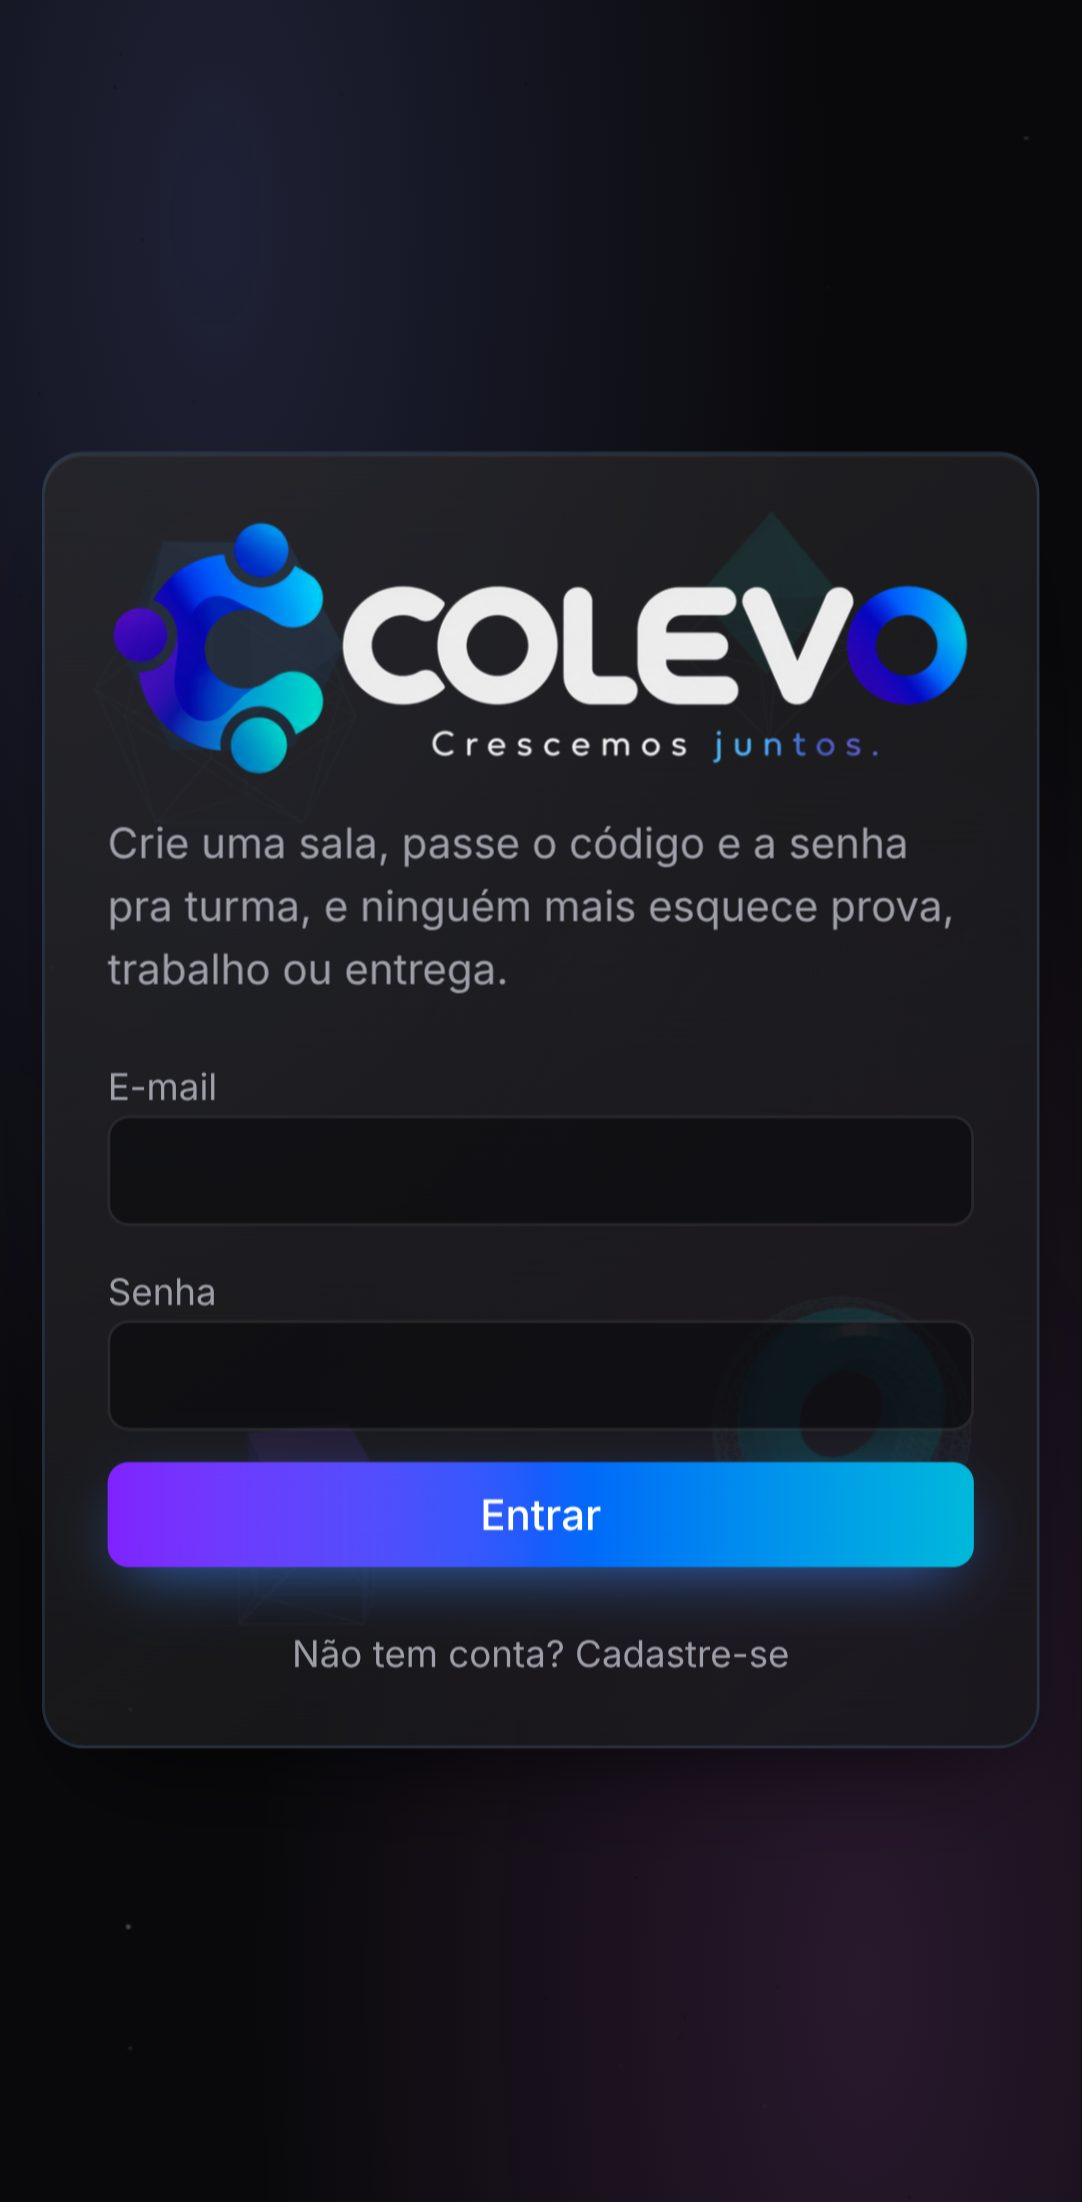
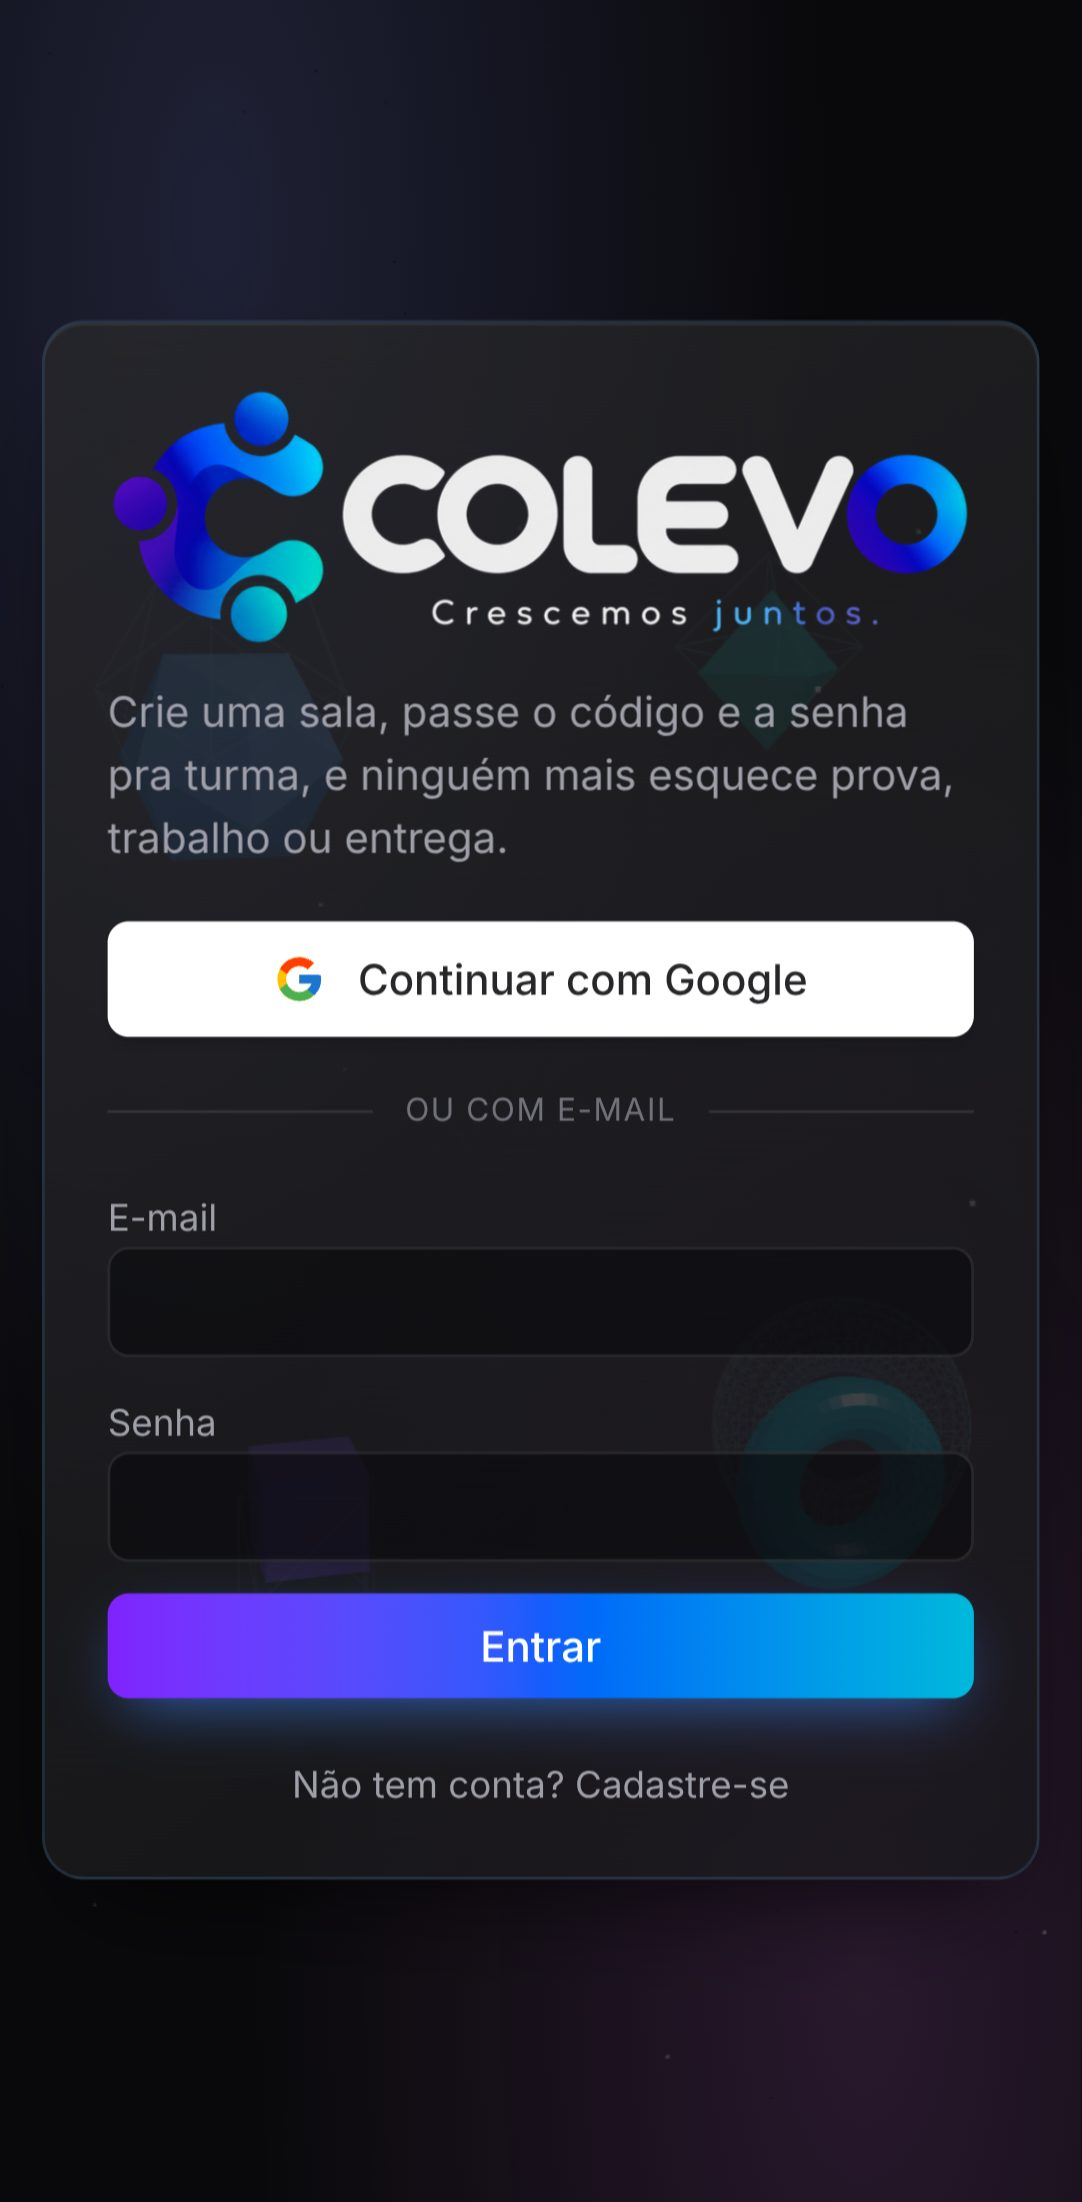
Login com Google
- Botão 'Continuar com Google' (fluxo PKCE, compatível com as rotas em #)
- Convite preservado: quem chega por link de convite volta do Google já
  com 'Entrar na sala' aberto
- Perfil usa o nome da conta Google (migração 0005)
- Testes de unidade e E2E para o fluxo

Claude-Session: https://claude.ai/code/session_01LPd3iDwAj924mu54k76acW

diff --git a/src/features/auth/TelaLogin.tsx b/src/features/auth/TelaLogin.tsx
@@ -3,6 +3,7 @@ import { supabase } from '../../lib/supabase'
 import { Botao, Campo, Cartao, Erro } from '../../components/ui'
 import { Tilt } from '../../components/Tilt'
 import { Logo } from '../../components/Logo'
+import { entrarComGoogle } from './loginGoogle'
 
 export function TelaLogin() {
   const [modo, setModo] = useState<'entrar' | 'cadastrar'>('entrar')
@@ -12,6 +13,18 @@ export function TelaLogin() {
   const [carregando, setCarregando] = useState(false)
   const [erro, setErro] = useState<unknown>(null)
   const [aviso, setAviso] = useState('')
+  const [indoProGoogle, setIndoProGoogle] = useState(false)
+
+  async function google() {
+    setErro(null)
+    setIndoProGoogle(true)
+    try {
+      await entrarComGoogle() // o navegador sai para a página do Google
+    } catch (e) {
+      setErro(e)
+      setIndoProGoogle(false)
+    }
+  }
 
   async function enviar(e: FormEvent) {
     e.preventDefault()
@@ -41,6 +54,20 @@ export function TelaLogin() {
           <p className="text-zinc-400">Crie uma sala, passe o código e a senha pra turma, e ninguém mais esquece prova, trabalho ou entrega.</p>
         </div>
 
+        <button
+          type="button"
+          onClick={google}
+          disabled={indoProGoogle}
+          className="flex w-full items-center justify-center gap-3 rounded-lg bg-white px-4 py-2.5 font-medium text-zinc-800 shadow-md transition hover:bg-zinc-100 disabled:opacity-60"
+        >
+          <IconeGoogle />
+          {indoProGoogle ? 'Abrindo o Google…' : 'Continuar com Google'}
+        </button>
+
+        <div className="flex items-center gap-3 text-xs uppercase tracking-wider text-zinc-500">
+          <span className="h-px flex-1 bg-white/10" /> ou com e-mail <span className="h-px flex-1 bg-white/10" />
+        </div>
+
         <form onSubmit={enviar} className="space-y-3">
           {modo === 'cadastrar' && (
             <Campo rotulo="Seu nome" value={nome} onChange={(e) => setNome(e.target.value)} required />
@@ -63,6 +90,18 @@ export function TelaLogin() {
       </Cartao>
       </Tilt>
     </main>
+  )
+}
+
+/** Logo oficial do "G" do Google (as cores fazem parte das regras de marca deles). */
+function IconeGoogle() {
+  return (
+    <svg viewBox="0 0 48 48" className="size-5" aria-hidden="true">
+      <path fill="#FFC107" d="M43.6 20.5H42V20H24v8h11.3C33.7 32.7 29.2 36 24 36c-6.6 0-12-5.4-12-12s5.4-12 12-12c3.1 0 5.8 1.2 7.9 3.1l5.7-5.7C34 6.1 29.3 4 24 4 12.9 4 4 12.9 4 24s8.9 20 20 20 20-8.9 20-20c0-1.3-.1-2.4-.4-3.5z" />
+      <path fill="#FF3D00" d="m6.3 14.7 6.6 4.8C14.7 15.1 19 12 24 12c3.1 0 5.8 1.2 7.9 3.1l5.7-5.7C34 6.1 29.3 4 24 4 16.3 4 9.7 8.3 6.3 14.7z" />
+      <path fill="#4CAF50" d="M24 44c5.2 0 9.9-2 13.4-5.2l-6.2-5.2C29.2 35.1 26.7 36 24 36c-5.2 0-9.6-3.3-11.3-8l-6.5 5C9.5 39.6 16.2 44 24 44z" />
+      <path fill="#1976D2" d="M43.6 20.5H42V20H24v8h11.3c-.8 2.2-2.2 4.2-4.1 5.6l6.2 5.2C37 39.2 44 34 44 24c0-1.3-.1-2.4-.4-3.5z" />
+    </svg>
   )
 }
 

diff --git a/src/features/auth/loginGoogle.ts b/src/features/auth/loginGoogle.ts
@@ -1,0 +1,61 @@
+import { supabase } from '../../lib/supabase'
+
+const CHAVE_CONVITE = 'colevo:codigo-pendente'
+
+/** Endereço do app sem o "#/..." — é para onde o Google devolve a pessoa. */
+export function enderecoDeRetorno(local: Pick<Location, 'origin' | 'pathname'> = window.location): string {
+  return local.origin + local.pathname
+}
+
+/** Se a pessoa chegou por um link de convite (#/?codigo=...), devolve o código. */
+export function codigoNoEndereco(hash: string = window.location.hash): string | null {
+  const consulta = hash.split('?')[1]
+  if (!consulta) return null
+  const codigo = new URLSearchParams(consulta).get('codigo')
+  return codigo ? codigo.replace(/^"|"$/g, '') : null
+}
+
+/**
+ * Entrar com Google. O Google não preserva o "#/?codigo=" do convite,
+ * então o código fica guardado e é recuperado quando a pessoa volta.
+ */
+export async function entrarComGoogle() {
+  const codigo = codigoNoEndereco()
+  try {
+    if (codigo) sessionStorage.setItem(CHAVE_CONVITE, codigo)
+  } catch {
+    /* modo privado: segue sem o código */
+  }
+  const { error } = await supabase.auth.signInWithOAuth({
+    provider: 'google',
+    options: { redirectTo: enderecoDeRetorno(), queryParams: { prompt: 'select_account' } },
+  })
+  if (error) {
+    throw new Error(error.message.includes('not enabled') ? 'O login com Google ainda não foi ativado.' : error.message)
+  }
+}
+
+/** Pega (uma vez só) o código de convite guardado antes de ir para o Google. */
+export function retirarConvitePendente(): string | null {
+  try {
+    const codigo = sessionStorage.getItem(CHAVE_CONVITE)
+    sessionStorage.removeItem(CHAVE_CONVITE)
+    return codigo
+  } catch {
+    return null
+  }
+}
+
+/** Depois do login, tira o "?code=..." da barra de endereço (fica feio e não serve mais). */
+export function limparCodigoDaUrl() {
+  const url = new URL(window.location.href)
+  if (!url.searchParams.has('code')) return
+  url.searchParams.delete('code')
+  window.history.replaceState(null, '', url.pathname + url.search + url.hash)
+}
+
+/** Nome para mostrar: o que a pessoa digitou no cadastro ou o nome da conta Google. */
+export function nomeDoUsuario(meta: Record<string, unknown>, email?: string): string {
+  const nome = [meta.nome, meta.full_name, meta.name].find((v) => typeof v === 'string' && v.trim())
+  return (nome as string | undefined) ?? email?.split('@')[0] ?? 'Aluno'
+}

diff --git a/src/router.tsx b/src/router.tsx
@@ -1,4 +1,5 @@
-import { createHashHistory, createRootRoute, createRoute, createRouter, Link, Outlet } from '@tanstack/react-router'
+import { useEffect } from 'react'
+import { createHashHistory, createRootRoute, createRoute, createRouter, Link, Outlet, useNavigate } from '@tanstack/react-router'
 import { useQueryClient } from '@tanstack/react-query'
 import { Botao } from './components/ui'
 import { BotaoInstalar } from './components/BotaoInstalar'
@@ -7,6 +8,7 @@ import { Fundo3D } from './components/Fundo3D'
 import { supabase } from './lib/supabase'
 import { TelaLogin } from './features/auth/TelaLogin'
 import { useSessao } from './features/auth/useSessao'
+import { limparCodigoDaUrl, nomeDoUsuario, retirarConvitePendente } from './features/auth/loginGoogle'
 import { TelaLembretes } from './features/lembretes/TelaLembretes'
 import { ABAS, PaginaSala, type Aba } from './features/salas/PaginaSala'
 import { TelaSalas } from './features/salas/TelaSalas'
@@ -19,6 +21,15 @@ import { TelaSalas } from './features/salas/TelaSalas'
 function Raiz() {
   const sessao = useSessao()
   const qc = useQueryClient()
+  const navigate = useNavigate()
+
+  // Voltando do Google: limpa o ?code= do endereço e, se a pessoa veio de um convite, reabre o "Entrar na sala"
+  useEffect(() => {
+    if (!sessao) return
+    limparCodigoDaUrl()
+    const codigo = retirarConvitePendente()
+    if (codigo) navigate({ to: '/', search: { codigo } })
+  }, [sessao, navigate])
 
   return (
     <>
@@ -35,7 +46,7 @@ function Raiz() {
               <nav className="flex items-center gap-1 text-sm text-zinc-400">
                 <BotaoInstalar />
                 <Link to="/lembretes" className="rounded-lg px-3 py-2 hover:bg-white/5 [&.active]:text-white" title="Lembretes">🔔<span className="hidden sm:inline"> Lembretes</span></Link>
-                <span className="hidden px-2 md:inline">{(sessao.user.user_metadata.nome as string | undefined) ?? sessao.user.email}</span>
+                <span className="hidden px-2 md:inline">{nomeDoUsuario(sessao.user.user_metadata, sessao.user.email)}</span>
                 <Botao
                   variante="fantasma"
                   className="text-sm"

diff --git a/src/features/auth/loginGoogle.test.ts b/src/features/auth/loginGoogle.test.ts
@@ -1,0 +1,23 @@
+import { describe, expect, it, vi } from 'vitest'
+
+// O módulo importa o cliente do Supabase; nos testes ele não é usado.
+vi.mock('../../lib/supabase', () => ({ supabase: {} }))
+const { codigoNoEndereco, enderecoDeRetorno, nomeDoUsuario } = await import('./loginGoogle')
+
+describe('login com Google', () => {
+  it('volta para a raiz do app, sem o #', () => {
+    expect(enderecoDeRetorno({ origin: 'https://victin7.github.io', pathname: '/Turma-ADS/' })).toBe('https://victin7.github.io/Turma-ADS/')
+  })
+
+  it('reconhece o código de convite no endereço, inclusive como o roteador escreve', () => {
+    expect(codigoNoEndereco('#/?codigo=K7QX2M')).toBe('K7QX2M')
+    expect(codigoNoEndereco('#/?codigo=%22K7QX2M%22')).toBe('K7QX2M')
+    expect(codigoNoEndereco('#/sala/123')).toBeNull()
+  })
+
+  it('usa o nome do cadastro, senão o da conta Google, senão o começo do e-mail', () => {
+    expect(nomeDoUsuario({ nome: 'Victin' }, 'v@x.com')).toBe('Victin')
+    expect(nomeDoUsuario({ full_name: 'Victor Anjos' }, 'v@x.com')).toBe('Victor Anjos')
+    expect(nomeDoUsuario({}, 'victor.anjos@gmail.com')).toBe('victor.anjos')
+  })
+})

diff --git a/e2e/app.spec.ts b/e2e/app.spec.ts
@@ -68,3 +68,14 @@ test.describe('logado', () => {
     await expect(page.getByText('Painel do líder')).toBeVisible()
   })
 })
+
+test('botão "Continuar com Google" aparece e manda para o Google', async ({ page }) => {
+  await prepararMock(page, { logado: false })
+  // O Supabase responde com o endereço do Google; aqui só conferimos que o app chama o login certo
+  const pedido = page.waitForRequest((r) => r.url().includes('/auth/v1/authorize') && r.url().includes('provider=google'))
+  await page.route('**/auth/v1/authorize**', (r) => r.fulfill({ status: 200, body: 'ok' }))
+  await page.goto('./')
+  await page.getByRole('button', { name: 'Continuar com Google' }).click()
+  const req = await pedido
+  expect(new URL(req.url()).searchParams.get('redirect_to')).toMatch(/^http:\/\/localhost:\d+\/$/)
+})

diff --git a/src/lib/supabase.ts b/src/lib/supabase.ts
@@ -11,4 +11,9 @@ if (!url || !anonKey) {
 
 // O tipo <Database> faz o TypeScript conhecer cada tabela e coluna:
 // errar o nome de um campo vira erro de compilação, não bug em produção.
-export const supabase = createClient<Database>(url, anonKey)
+//
+// flowType 'pkce': o login com Google volta com ?code=... (antes do #), em vez de
+// colocar o token no #. Como o app usa rotas com # (#/sala/...), o fluxo padrão se perderia.
+export const supabase = createClient<Database>(url, anonKey, {
+  auth: { flowType: 'pkce', detectSessionInUrl: true, persistSession: true },
+})
